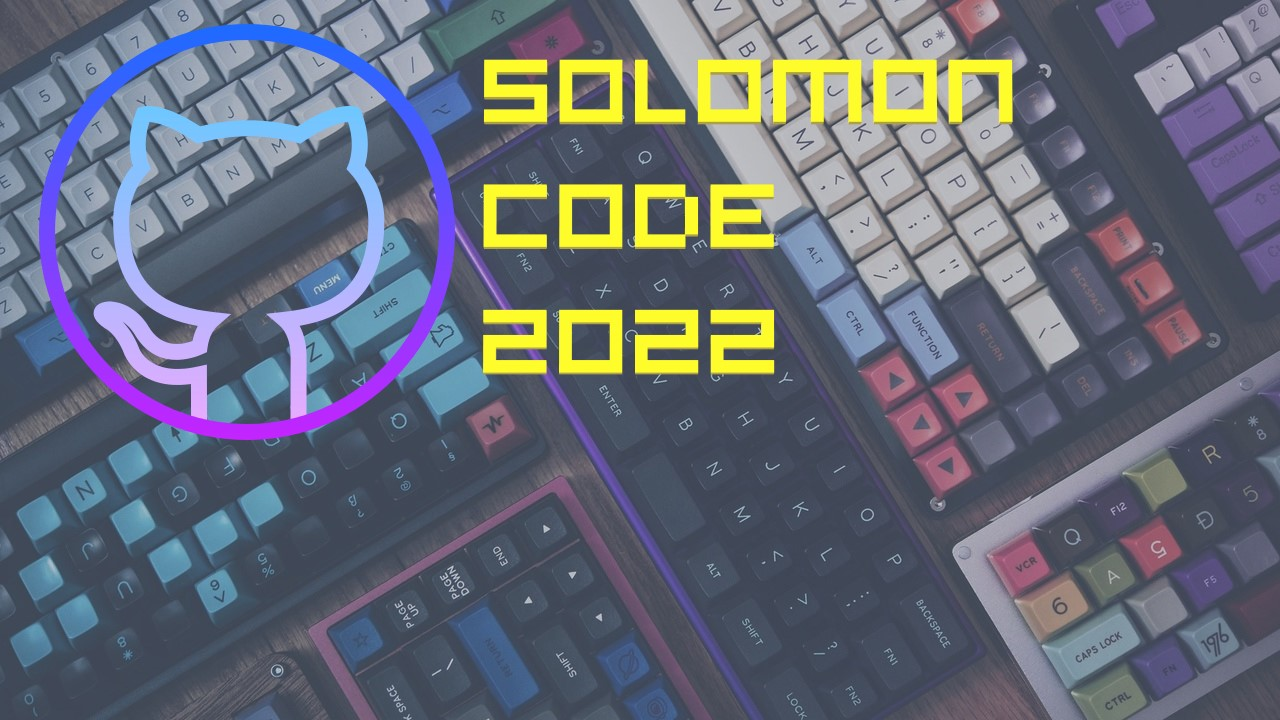
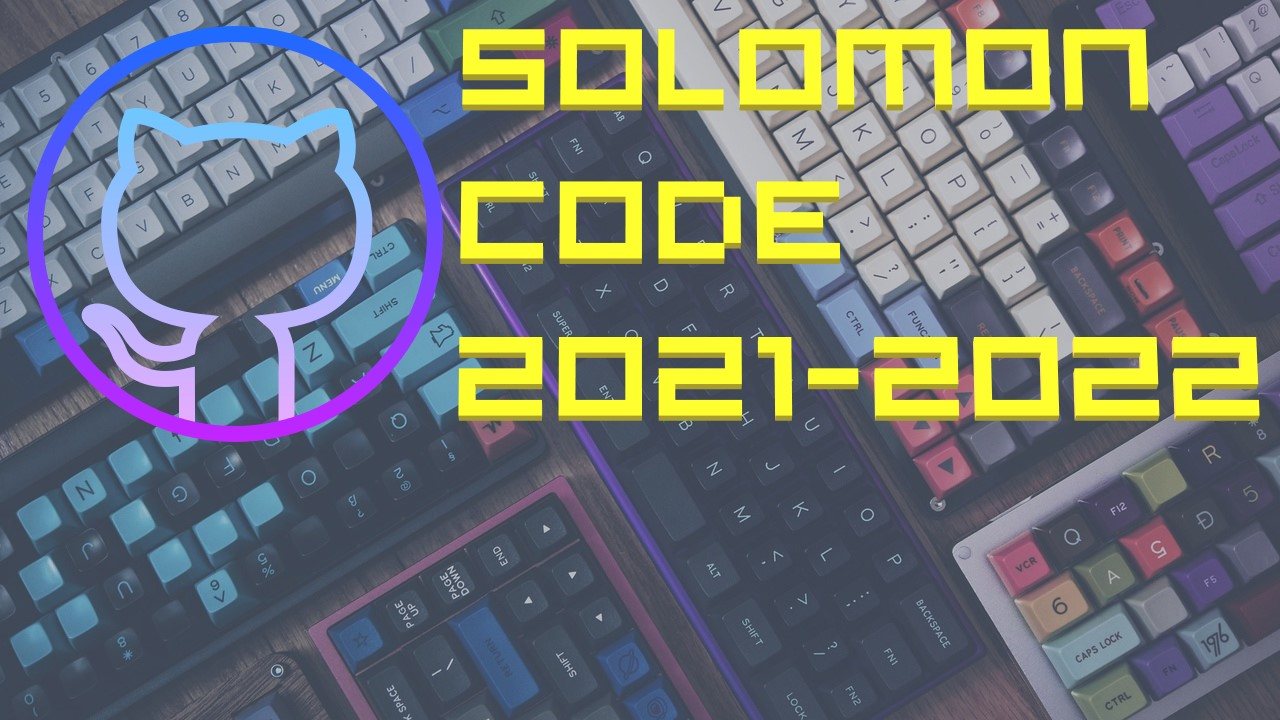
Add files via upload

Changed region(s): [[0.0, 0.0306, 1.0, 0.6111]]

diff --git a/do.html b/do.html
@@ -34,13 +34,13 @@
 	</div>
 
 	<!-- Page info section -->
-	<section class="page-info-section set-bg" data-setbg="img/6.jpg">
+	<section class="page-info-section set-bg" data-setbg="img/ng.jpg">
 		<div class="pi-content">
 			<div class="container">
 				<div class="row">
 					<div class="col-xl-5 col-lg-6 text-white">
-						<h2>Cyber World</h2>
-						<p>2021-2022<br>Крутая игра с открытым исходным кодом. </p>
+						<h2>Dogan Out</h2>
+						<p>2020-2022 <br>Кот, который пошёл в магазин за одеждой и заработал на призраке. <br>Победи призрака и поменяй цвет. <br>3 Версии этой игры в одной игре</p>
 					</div>
 				</div>
 			</div>
@@ -48,8 +48,8 @@
 	</section>
 	<!-- Page info section -->
 
-	<img src="img/1.1.jpg"><img src="img/1.2.jpg"><img src="img/1.3.jpg">
-	<img src="img/1.4.jpg"><img src="img/1.5.jpg">
+	<img src="img/ng.1.jpg"><img src="img/ng.2.jpg"><img src="img/ng.3.jpg">
+	<img src="img/ng.4.jpg"><img src="img/ng.5.jpg">
 
 	<!-- Page section -->
 	<section class="page-section review-page spad">
@@ -57,20 +57,20 @@
 			<div class="row">
 				<div class="col-md-6">
 					<div class="review-item">
-						<div class="review-cover set-bg" data-setbg="img/3.jpg">
+						<div class="review-cover set-bg" data-setbg="img/ng.jpg">
 						</div>
 						<div class="review-text">
-							<h4><a href="https://disk.yandex.ru/d/m7qEANpCaLVIfg" target="_blank">Cyber World For Windows</a></h4>
+							<h4><a href="https://disk.yandex.ru/d/hQuaq4rB5NtTUQ" target="_blank">Dogan Out For Windows</a></h4>
 							<p>2021-2022<br>Крутая игра с открытым исходным кодом. </p>
 						</div>
 					</div>
 				</div>
 				<div class="col-md-6">
 					<div class="review-item">
-						<div class="review-cover set-bg" data-setbg="img/3.jpg">
+						<div class="review-cover set-bg" data-setbg="img/ng.jpg">
 						</div>
 						<div class="review-text">
-							<h4><a href="https://disk.yandex.ru/d/rgNBW6Iafp-Lhg" target="_blank">Cyber World For Android</a></h4>
+							<h4><a href="https://disk.yandex.ru/d/3lzt2QES9xGZYg" target="_blank">Dogan Out For Android</a></h4>
 							<p>2021-2022<br>Крутая игра с открытым исходным кодом. </p>
 						</div>
 					</div>

diff --git a/index.html b/index.html
@@ -26,8 +26,8 @@
 			<div class="container">
 				<div class="row">
 					<div class="col-xl-5 col-lg-6 text-white">
-						<h2>Solomon code</h2>
-						<p>2021-2022</p>
+						<!-- <h2>Solomon code</h2>
+						<p>2021-2022</p> -->
 					</div>
 				</div>
 			</div>
@@ -69,26 +69,8 @@
 				<div class="col-lg-3 col-md-6 p-0">
 					<div class="feature-item set-bg" data-setbg="img/4.jpg">
 						<div class="fi-content text-white">
-							<h5><a href="solomon-games.html">Dogan Out 1.3</a></h5>
-							<p>2020 <br>Кот, который пошёл в магазин за одеждой и заработал на призраке. <br>Победи призрака и поменяй цвет. <br>3 Версии этой игры</p>
-							<a href="#" class="fi-comment">3 Comments</a>
-						</div>
-					</div>
-				</div>
-				<div class="col-lg-3 col-md-6 p-0">
-					<div class="feature-item set-bg" data-setbg="img/4.2.png">
-						<div class="fi-content text-white">
-							<h5><a href="solomon-games.html">Dogan Out 1.2</a></h5>
-							<p>2020 <br>Кот, который пошёл в магазин за одеждой и заработал на призраке. <br>Победи призрака и поменяй цвет. <br>3 Версии этой игры</p>
-							<a href="#" class="fi-comment">3 Comments</a>
-						</div>
-					</div>
-				</div>
-				<div class="col-lg-3 col-md-6 p-0">
-					<div class="feature-item set-bg" data-setbg="img/4.1.png">
-						<div class="fi-content text-white">
-							<h5><a href="solomon-games.html">Dogan Out 1.1</a></h5>
-							<p>2020 <br>Кот, который пошёл в магазин за одеждой и заработал на призраке. <br>Победи призрака и поменяй цвет. <br>3 Версии этой игры</p>
+							<h5><a href="do.html">Dogan Out</a></h5>
+							<p>2020-2022 <br>Кот, который пошёл в магазин за одеждой и заработал на призраке. <br>Победи призрака и поменяй цвет. <br>3 Версии этой игры в одной игре</p>
 							<a href="#" class="fi-comment">3 Comments</a>
 						</div>
 					</div>
